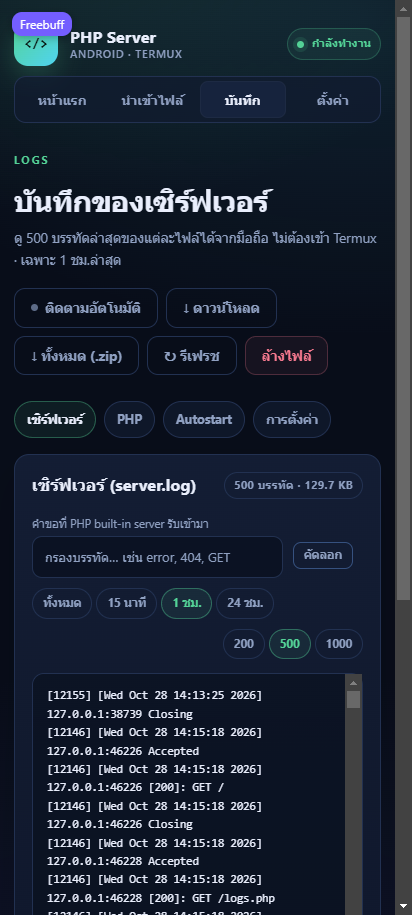
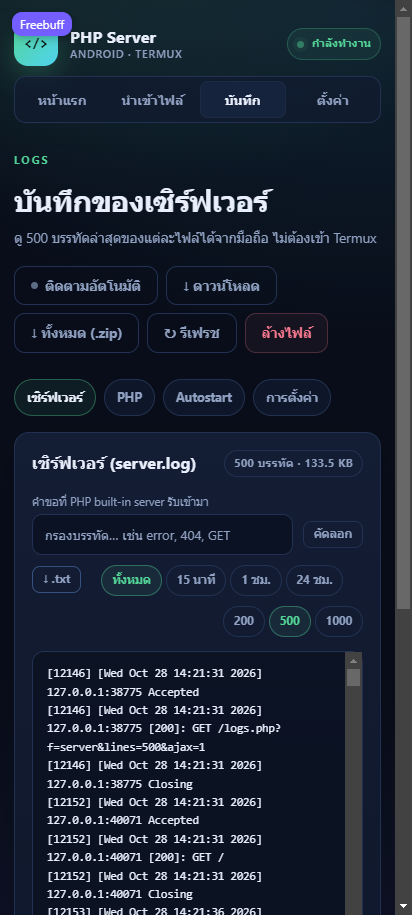
Save the visible log lines and add jump buttons
Copying a filtered view was the only way to keep it, and scrolling back to
the top of a long log meant dragging through thousands of wrapped lines. The
viewer can now download exactly the visible lines as a .txt file and offers
floating jump-to-top/bottom buttons.

The blob download needed `blob:` in connect-src; without it Chrome refused
the download with a CSP violation.

Generated with Codebuff 🤖

diff --git a/www/assets/app.js b/www/assets/app.js
@@ -256,6 +256,50 @@
                 window.setTimeout(resetLabel, 2000);
             });
         }
+
+        // ดาวน์โหลดเฉพาะบรรทัดที่แสดงอยู่ (หลังกรอง) เป็น .txt
+        const saveButton = document.getElementById('log-save');
+
+        if (saveButton) {
+            saveButton.addEventListener('click', () => {
+                const base = (saveButton.getAttribute('data-file') || 'log').replace(/\.log$/i, '');
+                const now = new Date();
+                const pad = (value) => String(value).padStart(2, '0');
+                const stamp = `${now.getFullYear()}${pad(now.getMonth() + 1)}${pad(now.getDate())}-${pad(now.getHours())}${pad(now.getMinutes())}`;
+                const blob = new Blob([logView.textContent], { type: 'text/plain;charset=utf-8' });
+                const url = URL.createObjectURL(blob);
+                const link = document.createElement('a');
+
+                link.href = url;
+                link.download = `${base}-${stamp}.txt`;
+                document.body.appendChild(link);
+                link.click();
+                link.remove();
+                window.setTimeout(() => URL.revokeObjectURL(url), 2000);
+
+                const label = saveButton.textContent;
+                saveButton.textContent = 'บันทึกแล้ว';
+                window.setTimeout(() => {
+                    saveButton.textContent = label;
+                }, 1800);
+            });
+        }
+
+        // ปุ่มกระโดดบน/ล่างของ log
+        const topButton = document.getElementById('log-top');
+        const bottomButton = document.getElementById('log-bottom');
+
+        if (topButton) {
+            topButton.addEventListener('click', () => {
+                logView.scrollTop = 0;
+            });
+        }
+
+        if (bottomButton) {
+            bottomButton.addEventListener('click', () => {
+                logView.scrollTop = logView.scrollHeight;
+            });
+        }
     }
 
     // ---------- log viewer: ติดตามบรรทัดใหม่ทุก 5 วินาที ----------

diff --git a/www/assets/app.css b/www/assets/app.css
@@ -547,6 +547,31 @@ code {
     max-height: 460px;
 }
 
+.log-scroll {
+    position: relative;
+}
+
+.log-jump {
+    position: absolute;
+    right: 10px;
+    bottom: 10px;
+    display: flex;
+    flex-direction: column;
+    gap: 6px;
+}
+
+.log-jump .btn {
+    width: 34px;
+    height: 34px;
+    padding: 0;
+    border-radius: 50%;
+    background: rgba(15, 26, 46, 0.92);
+    color: var(--text);
+    font-size: 14px;
+    line-height: 1;
+    opacity: 0.9;
+}
+
 .log-live {
     display: inline-flex;
     align-items: center;

diff --git a/www/logs.php b/www/logs.php
@@ -442,6 +442,9 @@ page_start('บันทึก', 'logs');
             <input class="log-filter" id="log-filter" type="search" autocomplete="off"
                    placeholder="กรองบรรทัด… เช่น error, 404, GET" aria-label="กรองบรรทัดใน log">
             <button class="btn tiny ghost" type="button" id="log-copy">คัดลอก</button>
+            <button class="btn tiny ghost" type="button" id="log-save"
+                    title="ดาวน์โหลดเฉพาะบรรทัดที่แสดงอยู่"
+                    data-file="<?= h(basename($currentLog['file'])) ?>">↓ .txt</button>
             <span class="hint small" id="log-filter-count"></span>
             <div class="log-range" role="group" aria-label="ช่วงเวลาของ log">
                 <a class="chip<?= $sinceMinutes === 0 ? ' active' : '' ?>"
@@ -458,7 +461,13 @@ page_start('บันทึก', 'logs');
                 <?php endforeach; ?>
             </div>
         </div>
-        <pre class="bootlog log-view" id="log-view" tabindex="0"><?= h(implode("\n", $lines)) ?></pre>
+        <div class="log-scroll">
+            <pre class="bootlog log-view" id="log-view" tabindex="0"><?= h(implode("\n", $lines)) ?></pre>
+            <div class="log-jump">
+                <button class="btn tiny ghost" type="button" id="log-top" aria-label="เลื่อนไปบนสุด">↑</button>
+                <button class="btn tiny ghost" type="button" id="log-bottom" aria-label="เลื่อนไปท้ายสุด">↓</button>
+            </div>
+        </div>
         <p class="hint small">
             ไฟล์: <code><?= h($currentLog['file']) ?></code>
             <?php if ($fileMtime > 0): ?>

diff --git a/www/_lib.php b/www/_lib.php
@@ -310,7 +310,8 @@ function send_security_headers(): void
     header('Cache-Control: no-store, no-cache, must-revalidate');
     header(
         "Content-Security-Policy: default-src 'self'; img-src 'self' data:; "
-        . "style-src 'self' 'unsafe-inline'; script-src 'self'; connect-src 'self'; "
+        // blob: จำเป็นสำหรับดาวน์โหลด log ที่กรองแล้ว (เบราว์เซอร์สร้างไฟล์เอง)
+        . "style-src 'self' 'unsafe-inline'; script-src 'self'; connect-src 'self' blob:; "
         . "form-action 'self'; base-uri 'none'; frame-ancestors 'none'"
     );
 }

diff --git a/README.md b/README.md
@@ -22,7 +22,7 @@
 - **PIN + session** ป้องกันทั้งเว็บเมื่อเปิดให้เครื่องอื่นใน Wi-Fi เข้าถึง
 - **หน้าตั้งค่าทางเว็บ** เปลี่ยนพอร์ต/PIN และเปิดโหมด LAN ได้จากเบราว์เซอร์ พร้อมรีสตาร์ตอัตโนมัติและย้อนกลับค่าเดิมถ้าพอร์ตใหม่ไม่ขึ้น
 - **IP + QR code สำหรับ LAN** — หน้า settings แสดง IP ของ Wi-Fi ทุกอินเทอร์เฟซพร้อม QR ให้สแกนเปิดจากเครื่องอื่น
-- **ดู log ผ่านเว็บ** — server, PHP errors, autostart และ settings เลือก 200/500/1000 บรรทัด หรือกรองเฉพาะ 15 นาที/1 ชม./24 ชม. พร้อมรีเฟรช โหมดติดตามทุก 5 วินาที ตัวกรองบรรทัด คัดลอก ดาวน์โหลดทีละไฟล์หรือทั้งหมดเป็น ZIP และล้างไฟล์
+- **ดู log ผ่านเว็บ** — server, PHP errors, autostart และ settings เลือก 200/500/1000 บรรทัด หรือกรองเฉพาะ 15 นาที/1 ชม./24 ชม. พร้อมรีเฟรช โหมดติดตามทุก 5 วินาที ตัวกรองบรรทัด ปุ่มกระโดดบน/ล่าง คัดลอก ดาวน์โหลดทีละไฟล์/ผลกรอง `.txt`/ทั้งหมดเป็น ZIP และล้างไฟล์
 - **ความปลอดภัยพื้นฐาน** CSRF token, ปิด directory listing, กัน path traversal, บล็อกไฟล์ซ่อน
 - **ตรวจ secrets ก่อน push** ด้วยสคริปต์ + git hook (`scripts/check-secrets.sh`)
 - **ใช้แบบออฟไลน์ได้** หลังติดตั้งเสร็จ ไม่ต้องต่อเน็ตเพื่อรันเซิร์ฟเวอร์
@@ -60,7 +60,8 @@ Android 16 / HyperOS, PHP 8.5.12 ใน Termux จาก F-Droid)
 ![กรองบรรทัดใน log](docs/images/logs-filter.png)
 
 เลือกจำนวนบรรทัด (200 / 500 / 1000) หรือช่วงเวลา (15 นาที / 1 ชม. / 24 ชม.) ได้จากปุ่มเหนือรายการ
-กด **คัดลอก** เพื่อคัดลอกเฉพาะบรรทัดที่แสดงอยู่ กด **ล้างไฟล์** เมื่อ log บวมเกินไป (มีกล่องยืนยันก่อนลบ)
+กด **คัดลอก** หรือ **↓ .txt** เพื่อเก็บเฉพาะบรรทัดที่แสดงอยู่ (หลังกรอง/กรองเวลา) และใช้ปุ่ม **↑ / ↓**
+มุมขวาล่างเพื่อกระโดดบน/ล่างของ log กด **ล้างไฟล์** เมื่อ log บวมเกินไป (มีกล่องยืนยันก่อนลบ)
 หรือกด **ทั้งหมด (.zip)** เพื่อดาวน์โหลดทั้ง 4 ไฟล์พร้อม `info.txt` ในไฟล์เดียว (บีบอัดแล้ว ~11 KB จาก log ~130 KB)
 
 ![เลือกจำนวนบรรทัดและปุ่มล้างไฟล์](docs/images/logs-tools.png)
@@ -504,6 +505,9 @@ PHP 8.5.12) แล้ว:
   และกรอง 15 นาที/1 ชม./24 ชม. ได้ตรงตาม log จริง (ทั้งหน้าเว็บและ AJAX)
 - ปุ่มคัดลอก: ใช้ Clipboard API เมื่อเป็น secure context และ fallback เป็น textarea บน LAN (http)
   ทดสอบทั้งเส้นทางสำเร็จ ล้มเหลว และการรีเซ็ตป้ายปุ่ม
+- ดาวน์โหลดผลกรอง `.txt`: ชื่อไฟล์ `server-YYYYMMDD-HHMM.txt` และเนื้อหาตรงกับที่แสดงทุกไบต์
+  (พบและแก้บั๊ก CSP ที่บล็อก `blob:` — เพิ่ม `blob:` ใน `connect-src` แล้วกดจริงผ่านโดยไม่มี error)
+- ปุ่มกระโดด: จากกลาง log ไปบนสุด (0) และท้ายสุด (scrollHeight) ถูกต้อง
 - หน้า settings: อ่าน IP ของ Wi-Fi ด้วย `net_get_interfaces()` (Termux อ่าน `/proc/net/fib_trie` ไม่ได้)
   และ QR ที่สร้างในเบราว์เซอร์ถอดรหัสกลับเป็น URL ถูกต้องทั้งสองอินเทอร์เฟซ
 - โหมด LAN บนพอร์ตทดสอบ: เรียกผ่าน IP จริงของเครื่องได้, PIN ยังกันหน้าเว็บ (302) และล็อกอินผ่าน IP นั้นได้

diff --git a/docs/usage.md b/docs/usage.md
@@ -367,8 +367,10 @@ Autostart และการตั้งค่า กด **ติดตามท
   พร้อมตัวเลข `ที่ตรง / ทั้งหมด` ใช้ร่วมกับโหมดติดตามได้ บรรทัดใหม่ที่ตรงเงื่อนไขจะขึ้นเอง
 - **ช่วงเวลา** — กด `15 นาที` / `1 ชม.` / `24 ชม.` เพื่อดูเฉพาะ log ล่าสุด (กรองฝั่งเซิร์ฟเวอร์
   ตาม timezone ของเซิร์ฟเวอร์ จึงไม่เพี้ยนเมื่อเปิดจากเครื่องที่ตั้งเวลาไว้ต่างกัน)
-- **คัดลอก** — คัดลอกเฉพาะบรรทัดที่แสดงอยู่ (หลังกรอง/กรองเวลา) ไปยังคลิปบอร์ด
-  ใช้ Clipboard API เมื่อเปิดผ่าน `127.0.0.1` และ fallback เป็น textarea เมื่อเปิดผ่าน IP ใน LAN
+- **คัดลอก / ↓ .txt** — เก็บเฉพาะบรรทัดที่แสดงอยู่ (หลังกรอง/กรองเวลา) ไปยังคลิปบอร์ด
+  หรือดาวน์โหลดเป็นไฟล์ `server-YYYYMMDD-HHMM.txt` (ใช้ Clipboard API เมื่อเปิดผ่าน `127.0.0.1`
+  และ fallback เป็น textarea เมื่อเปิดผ่าน IP ใน LAN)
+- **↑ / ↓** — ปุ่มลอยมุมขวาล่างของ log สำหรับเลื่อนไปบนสุด/ท้ายสุดโดยไม่ต้องลากนิ้วหลายรอบ
 - **ดาวน์โหลด** — ดาวน์โหลดไฟล์ log เต็ม (ไม่ใช่แค่บรรทัดที่แสดง) เพื่อเอาไปเปิดในคอม
   ไฟล์ที่ได้เป็น `text/plain` และมี `Content-Length` ตรงกับขนาดจริง
 - **จำนวนบรรทัด** — เลือก 200 / 500 / 1000 ได้จากปุ่มเหนือรายการ (โหมดติดตามใช้จำนวนเดิมต่อ)
